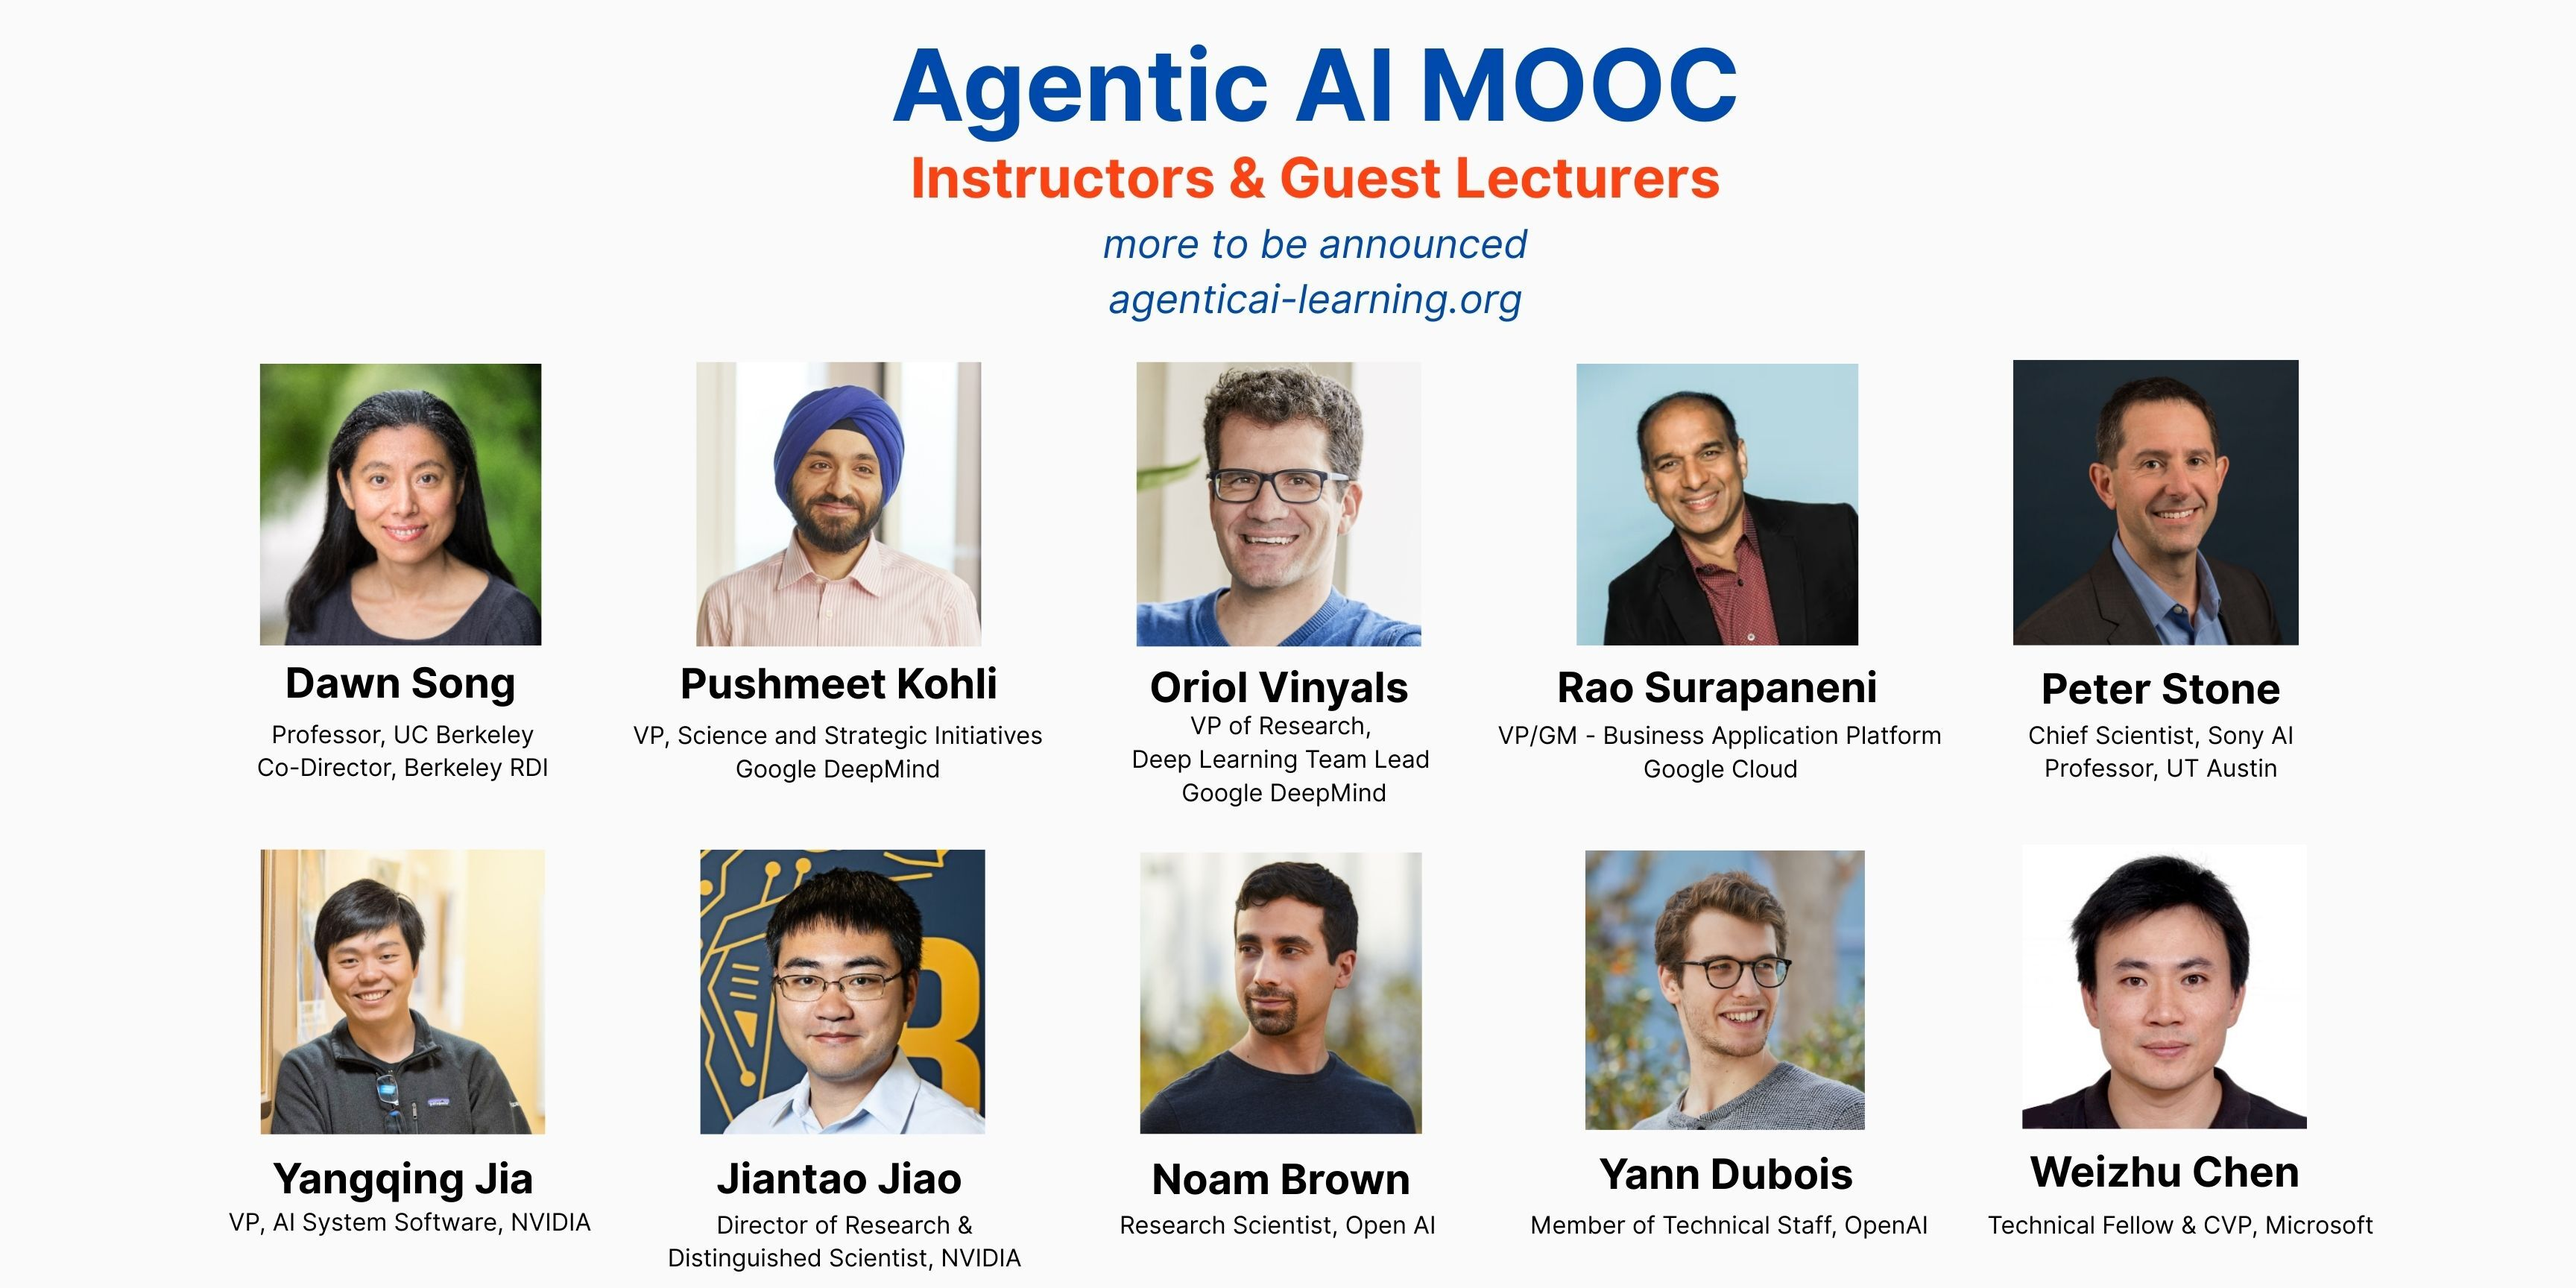
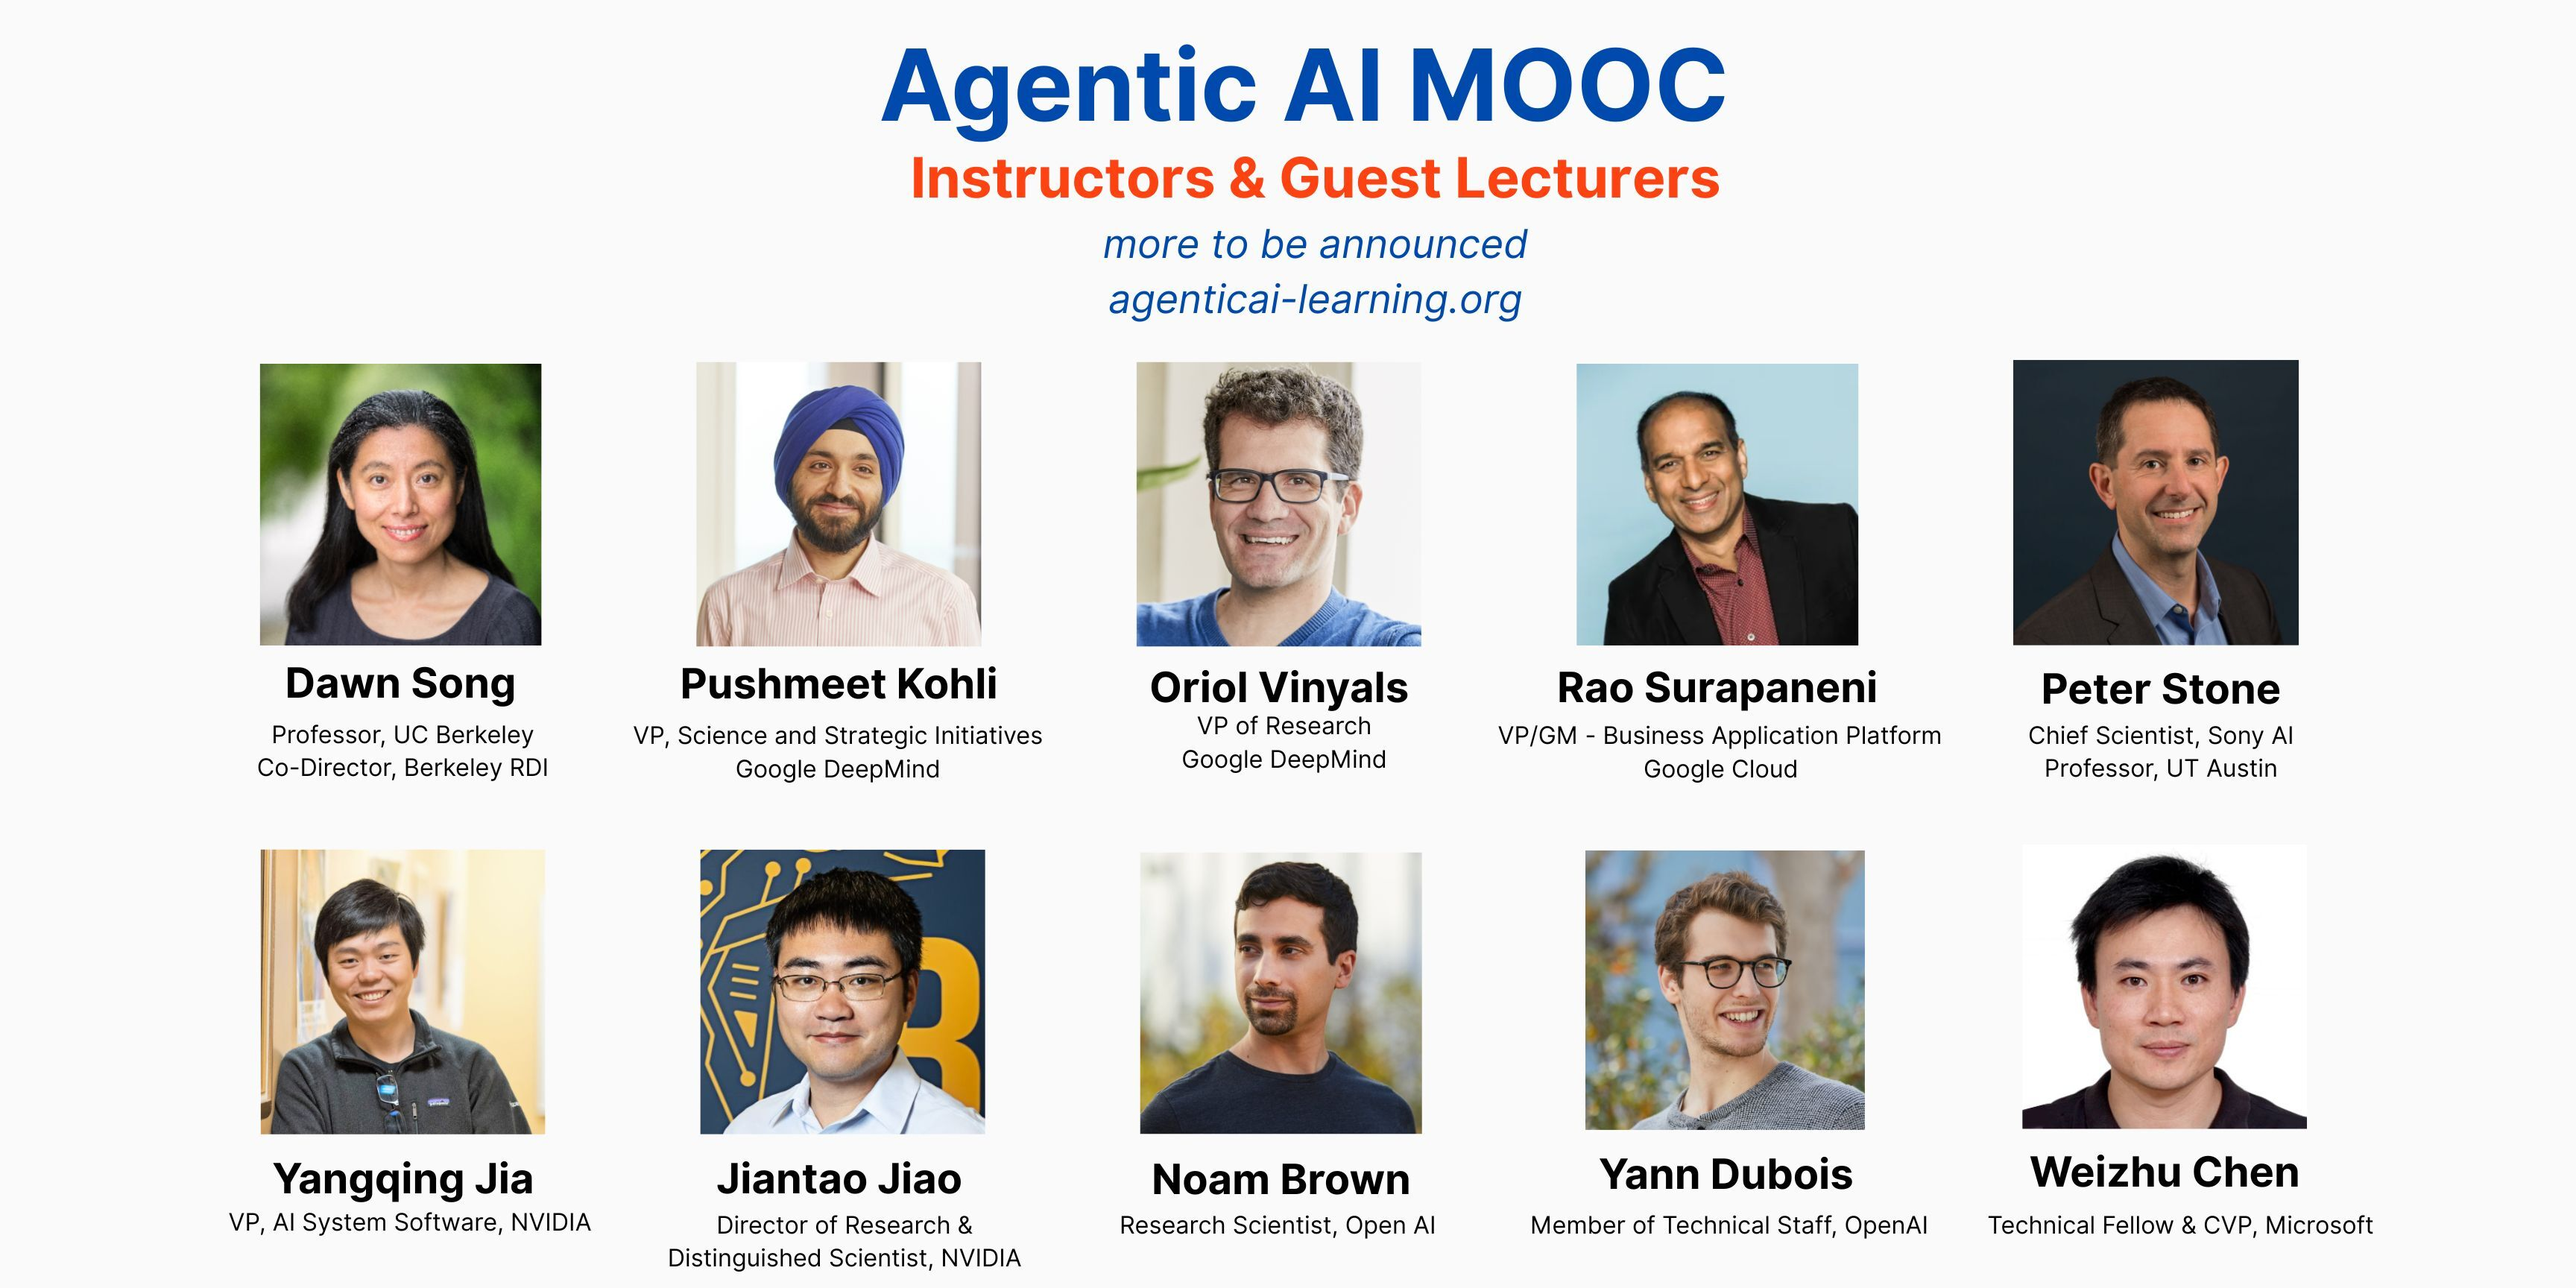
update

Changed region(s): [[0.3438, 0.0312, 0.6875, 0.125], [0.4375, 0.5312, 0.5625, 0.625], [0.5938, 0.125, 0.625, 0.1562]]

diff --git a/f25.md b/f25.md
@@ -15,6 +15,8 @@ twitter_card: summary_large_image
 # ↑↑↑
 ---
 
+<div style="height:56px"></div>
+
 ## Prospective Students
 
 - Join the <span style="color: #dc3545; font-weight: bold;">25K+</span> global community of Agentic AI MOOC and sign up for the course: <a href="https://forms.gle/gKFNDMiUBaKddUh36">Signup Form</a>
@@ -22,6 +24,8 @@ twitter_card: summary_large_image
 - Check out the <a href="https://rdi.berkeley.edu/events/agentic-ai-summit">Agentic AI Summit</a> to learn more about the latest developments in agentic AI.
 - This course is built upon the fundamentals from the [Fall 2024 LLM Agents MOOC](https://llmagents-learning.org/f24) and [Spring 2025 Advanced LLM Agents MOOC](https://llmagents-learning.org/sp25).
 
+
+<div style="height:56px"></div>
 
 ## Course Staff
 
@@ -218,21 +222,26 @@ twitter_card: summary_large_image
       <div class="speaker-card">
         <img class="face" src="assets/Peter_Stone.png" alt="Peter Stone">
         <div class="name">Peter Stone</div>
-        <div class="role">Chief Scientist, Sony Al</div>
-        <div class="org"><img src="assets/austin.png" alt="UT Austin"></div>
+        <div class="role">Chief Scientist at Sony Al, Professor at UT Austin</div>
+        <div class="org"><img src="assets/sony_ai.png" alt="Sony AI"></div>
       </div>
     </td>
   </tr>
 </table>
 
+<div style="height:56px"></div>
 
 ## Class Time and Location
 
 Lecture: 3-5pm PT Monday (starts Sep 15, 2025)
 
+<div style="height:56px"></div>
+
 ## Course Description
 
 Agentic AI is the new frontier and poised to transform the future of our daily life with the support of intelligent task automation and personalization. In this course, we will first discuss fundamental concepts that are essential for Agentic AI, including the foundation of LLMs, reasonsing, planning, agentic frameworks and infrastructure. We will also cover representative agent applications, including code generation, robotics, web automation, and scientific discovery. Meanwhile, we will discuss limitations and potential risks of current LLM agents, and share insights into directions for further improvement.
+
+<div style="height:56px"></div>
 
 ## Syllabus
 
